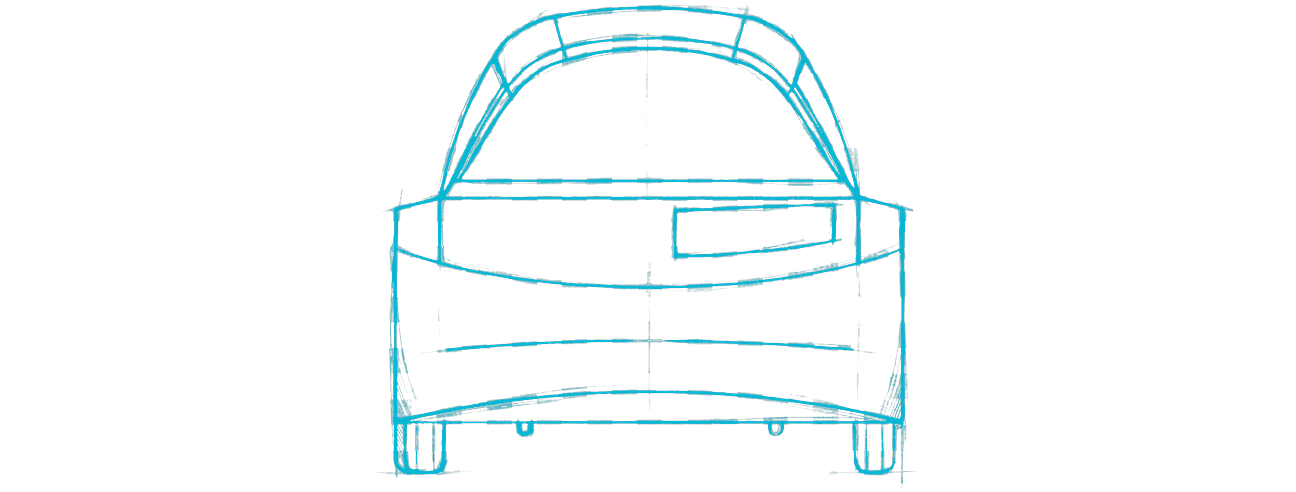
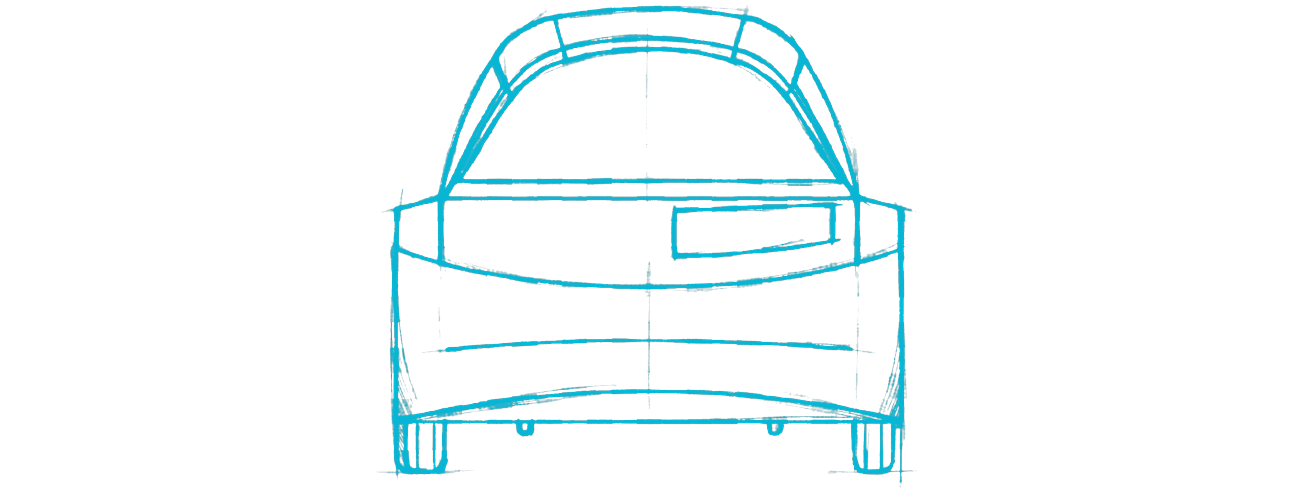
fix: hydro_4 gri cizgiler de cyan'a cevrildi (bagaj alt cizgisi)

diff --git a/scripts/fix_hydro4.py b/scripts/fix_hydro4.py
@@ -8,7 +8,7 @@ def process_hydro4():
     src_path = os.path.join(img_dir, 'hydro_4.png')
     out_path = os.path.join(img_dir, 'header-hydro-top.png')
     ref_path = os.path.join(img_dir, 'header-top.png')
-    
+
     img = Image.open(src_path).convert('RGBA')
     pixels = img.load()
     width, height = img.size
@@ -20,37 +20,43 @@ def process_hydro4():
             r, g, b, a = pixels[x, y]
             if a < 30:
                 continue
+
             diff_gr = g - r
             diff_br = b - r
-            
-            if diff_gr > 45 and diff_br > 40:
-                # Guclu cyan - tam opak
+            diff_max = max(abs(r-g), abs(g-b), abs(r-b))
+
+            # 1) Guclu cyan cizgiler
+            if diff_gr > 40 and diff_br > 35:
                 rp[x, y] = cyan_color + (255,)
-            elif diff_gr > 25 and diff_br > 20 and (diff_gr + diff_br) > 70:
-                # Anti-aliasing kenari
-                strength = min(255, int((diff_gr + diff_br) * 1.5))
-                rp[x, y] = cyan_color + (strength,)
-            elif diff_gr > 8 and diff_br > 8 and r < 215:
-                # Hydro4'e ozel: zayif ama gercek cizgi (r<215: beyaz filtresi)
-                strength = min(200, int((diff_gr + diff_br) * 3.5))
+
+            # 2) Zayif cyan (anti-aliasing kenarlari)
+            elif diff_gr > 8 and diff_br > 8 and r < 232:
+                strength = min(240, int((diff_gr + diff_br) * 4))
                 if strength > 60:
                     rp[x, y] = cyan_color + (strength,)
 
+            # 3) GRI cizgiler: r≈g≈b ve koyu (arka plan beyaz=255, cizgiler <185)
+            elif diff_max < 12 and r < 188:
+                # Koyulugu alpha'ya donustur: ne kadar koyu -> o kadar opak
+                strength = min(255, int((188 - r) * 3.5))
+                if strength > 80:
+                    rp[x, y] = cyan_color + (strength,)
+
     # Icerik sinirlari
-    rp2 = result.load()
     min_x, min_y, max_x, max_y = width, height, 0, 0
+    rp2 = result.load()
     for y in range(height):
         for x in range(width):
-            if rp2[x, y][3] > 30:
+            if rp2[x, y][3] > 40:
                 min_x = min(min_x, x); min_y = min(min_y, y)
                 max_x = max(max_x, x); max_y = max(max_y, y)
     if max_x > min_x and max_y > min_y:
-        pad = 10
-        result = result.crop((max(0,min_x-pad), max(0,min_y-pad), min(width,max_x+pad), min(height,max_y+pad)))
+        pad = 12
+        result = result.crop((max(0,min_x-pad), max(0,min_y-pad),
+                               min(width,max_x+pad), min(height,max_y+pad)))
     cw, ch = result.size
     print(f'  Icerik: {cw}x{ch}')
 
-    # Referans boyut x1.4
     ref_img = Image.open(ref_path)
     ref_w, ref_h = ref_img.size
     ref_img.close()
@@ -64,10 +70,9 @@ def process_hydro4():
     ox = (target_w - new_w) // 2
     oy = (target_h - new_h) // 2
     canvas.paste(result, (ox, oy), result)
-    print(f'  Scale:{scale:.2f} -> {new_w}x{new_h} -> canvas:{target_w}x{target_h}')
-
+    print(f'  Canvas: {target_w}x{target_h}')
     canvas.save(out_path, 'PNG')
-    print(f'  Kaydedildi: header-hydro-top.png')
+    print('  Kaydedildi: header-hydro-top.png')
 
 process_hydro4()
 print('Bitti!')

diff --git a/scripts/analyze_hydro.py b/scripts/analyze_hydro.py
@@ -1,34 +1,28 @@
 from PIL import Image
-from collections import Counter
 import os
 
 src = Image.open(r'c:\Users\ALI\Desktop\1.5 ADANA\telemetry-http\public\img\hydro_4.png').convert('RGBA')
 pixels = src.load()
 w, h = src.size
+print(f'Resim: {w}x{h}')
 
-# Tum opak piksellerin g-r ve b-r dagilimi
+# Alt %30'luk bölgeyi analiz et (kayıp çizgiler burada)
+bottom_start = int(h * 0.7)
 samples = []
-for y in range(0, h, 3):
-    for x in range(0, w, 3):
+for y in range(bottom_start, h, 2):
+    for x in range(0, w, 2):
         r, g, b, a = pixels[x, y]
-        if a > 0 and not (r > 230 and g > 230 and b > 230):  # beyaz hariç
+        if a > 0:
             diff_gr = g - r
             diff_br = b - r
-            samples.append((diff_gr, diff_br, r, g, b))
+            # Herhangi bir renkli piksel (beyaz/gri değil)
+            if not (r > 200 and g > 200 and b > 200 and abs(r-g)<15 and abs(g-b)<15):
+                samples.append((r,g,b,diff_gr,diff_br,a))
 
-# Esige gore piksel sayisi
-thresholds = [(20,15), (30,25), (40,35), (45,40), (50,45), (55,50), (60,55)]
-total = len(samples)
-print(f'Toplam opak, beyaz olmayan piksel: {total}')
-for tg, tb in thresholds:
-    cnt = sum(1 for dg,db,r,g,b in samples if dg>tg and db>tb)
-    print(f'  g-r>{tg} ve b-r>{tb}: {cnt} piksel ({100*cnt//max(total,1)}%)')
-
-# En koyu/zayif cyan ornekleri goster
-weak = [(r,g,b,g-r,b-r) for dg,db,r,g,b in samples if 10<dg<45 and 5<db<40]
+print(f'Alt bolgede beyaz olmayan piksel sayisi: {len(samples)}')
+# Ozgun renkleri listele
 from collections import Counter
-top_weak = Counter(weak).most_common(15)
-print('\nZayif cyan pikseller (g-r or b-r esige yakin):')
-for (r,g,b,dgr,dbr), cnt in top_weak:
-    print(f'  {cnt:4d}x  r={r:3d} g={g:3d} b={b:3d}  g-r={dgr} b-r={dbr}')
+top = Counter([(r,g,b,dg,db) for r,g,b,dg,db,a in samples]).most_common(30)
+for (r,g,b,dg,db), cnt in top:
+    print(f'  {cnt:4d}x  r={r:3d} g={g:3d} b={b:3d}  g-r={dg:3d} b-r={db:3d}')
 src.close()
